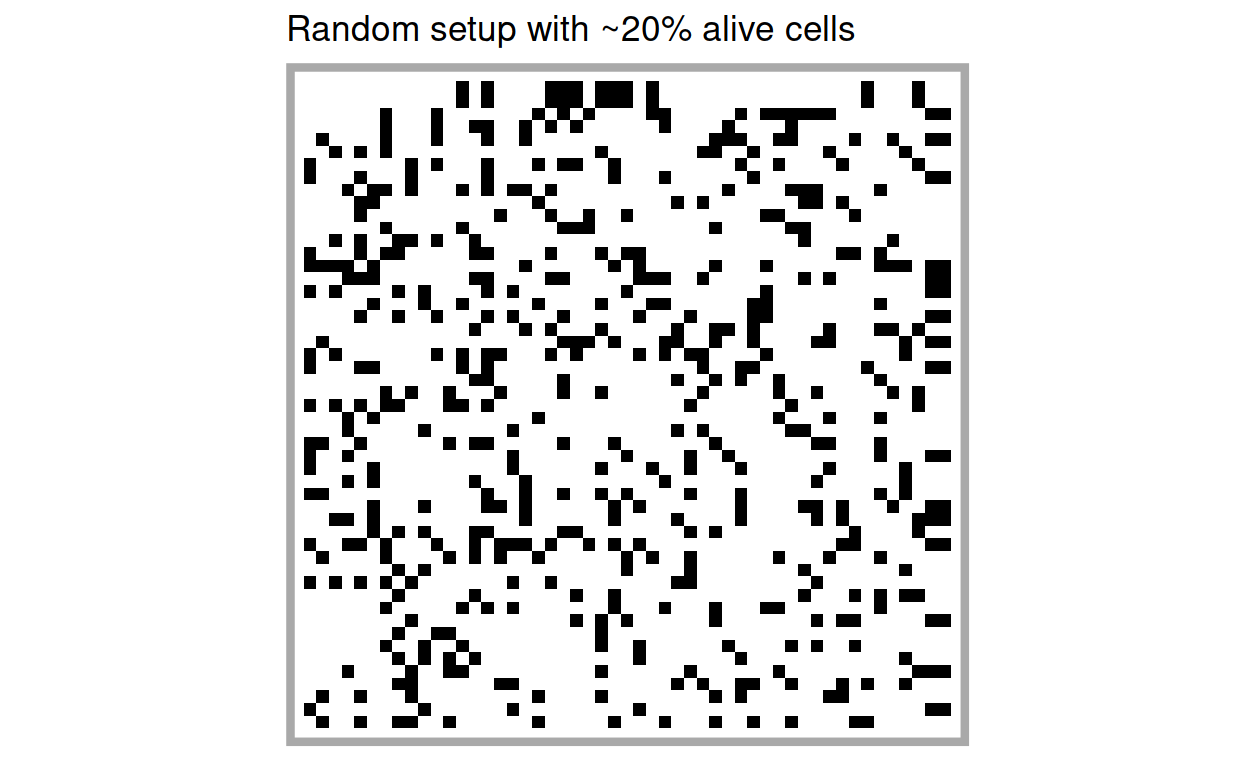
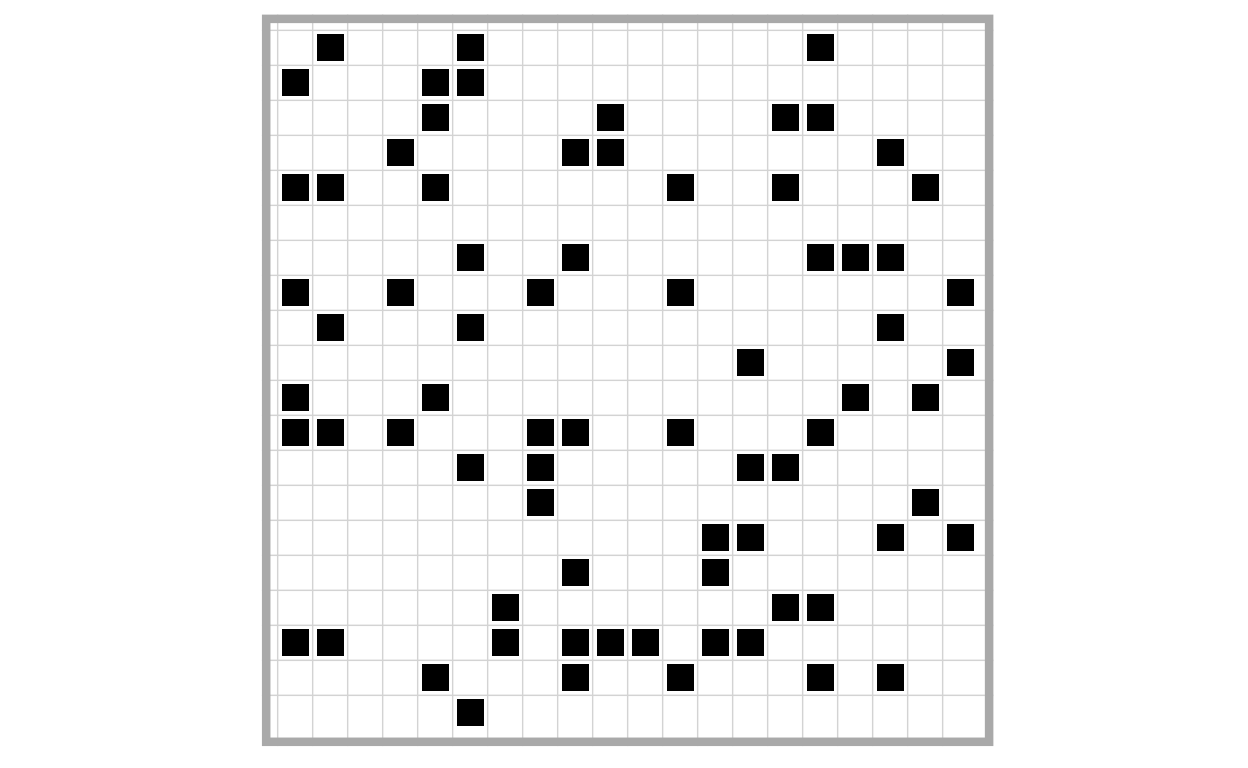
Streamlined animations
* also moved implementations to dedicated scripts

Changed region(s): [[0.1875, 0.0, 0.8125, 0.9688], [0.6875, 0.9375, 0.7188, 0.9688]]

diff --git a/docs/life-cellular-automaton.html b/docs/life-cellular-automaton.html
@@ -2111,12 +2111,11 @@ code span.wa { color: #5e5e5e; font-style: italic; } /* Warning */
 
 </div>
 <p>This game has first been described in a public newsletter by Martin Gardner <span class="citation" data-cites="gardner1970mathematical">(<a href="#ref-gardner1970mathematical" role="doc-biblioref">Gardner 1970</a>)</span>.</p>
-<p>Take a square grid of sufficient size Let’ start with something small, say 10x10. Randomly assign each cell one of two states: alive or dead.</p>
-<p>This is what we have so far:</p>
+<p>Take a square grid of sufficient size and assign each cell one of two states: alive or dead. Let’ start with something small, say 20x20:</p>
 <div class="layout-chunk" data-layout="l-body">
 <p><img src="life-cellular-automaton_files/figure-html5/unnamed-chunk-1-1.png" width="624" /></p>
 </div>
-<p>Light cells are dead and black cells are alive.</p>
+<p>White cells are dead and black cells are alive.</p>
 <p>We will now update the automaton one step at a time according to the following rules <span class="citation" data-cites="gardner1970mathematical">(<a href="#ref-gardner1970mathematical" role="doc-biblioref">Gardner 1970</a>)</span>:</p>
 <ul>
 <li>Survivals: Each alive cell with 2 or 3 neighbors survives into the next generation.</li>
@@ -2128,7 +2127,7 @@ code span.wa { color: #5e5e5e; font-style: italic; } /* Warning */
 <h4 id="task">Task</h4>
 <p>What would you expect to happen when we play this setup out over many generations?</p>
 <p>In fact, this cellular automaton, called <em>Life</em>, displays some very complex dynamics, and, frankly, some really fancy ones.</p>
-<p>Let’s have a look at an example.</p>
+<p>Let’s have a look at how the initial state shown above would play out.</p>
 <div class="layout-chunk" data-layout="l-body">
 <p><img src="life-cellular-automaton_files/figure-html5/full-game-1.gif" /><!-- --></p>
 </div>
